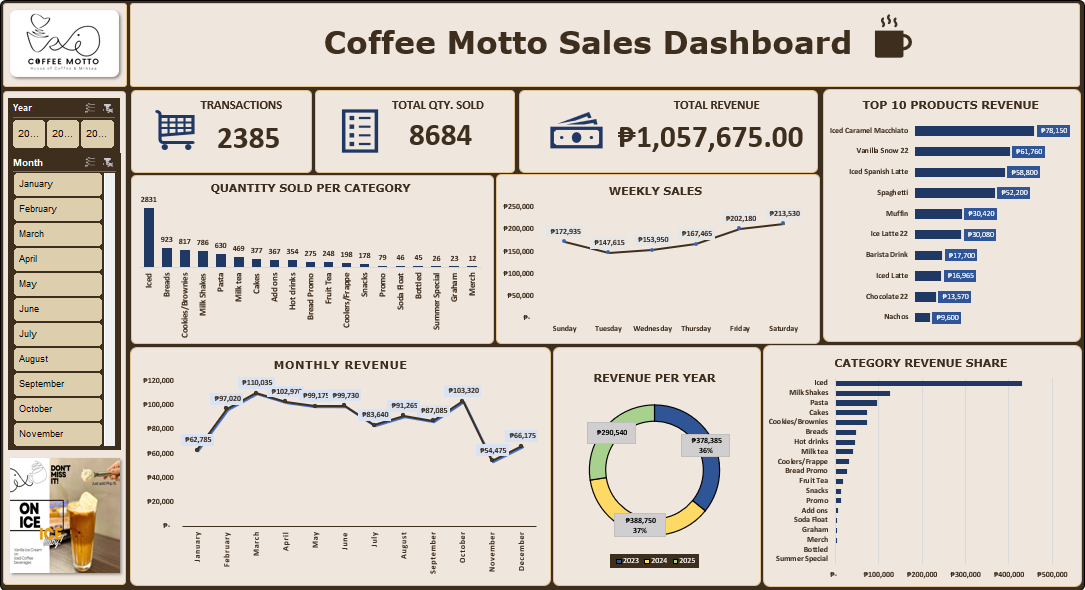
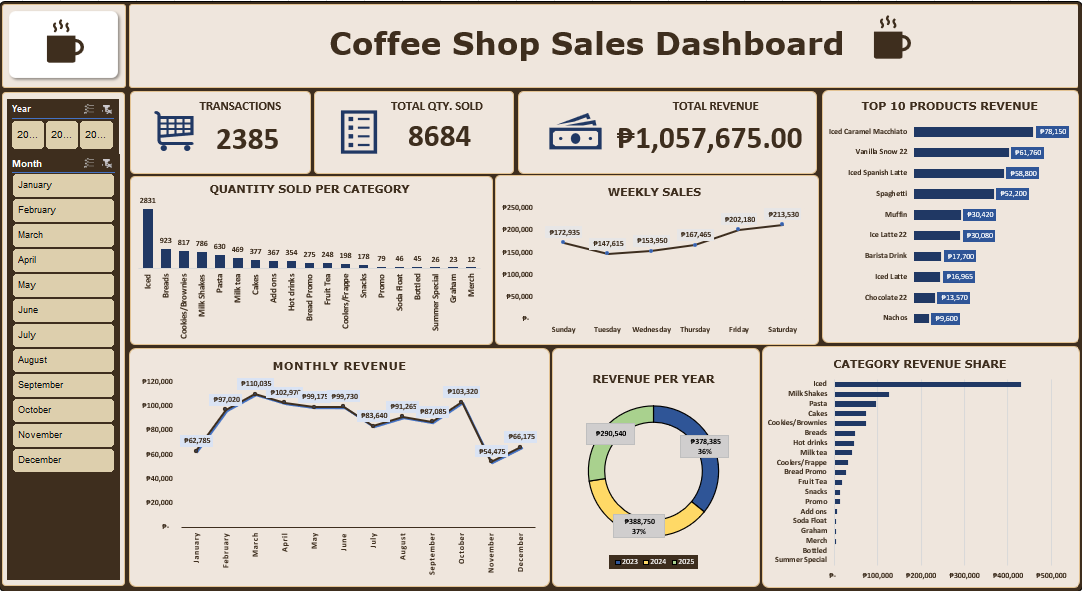
Update portfolio website

diff --git a/app/page.tsx b/app/page.tsx
@@ -96,7 +96,7 @@ const projects: Project[] = [
 
               },
               {
-                title: "Coffee Motto Sales Dashboard",
+                title: "Coffee Shop Sales Dashboard",
                 images: [
                   "/projects/coffee-motto/screenshot-1.png",
                 ], // Add paths here when your screenshots are ready
